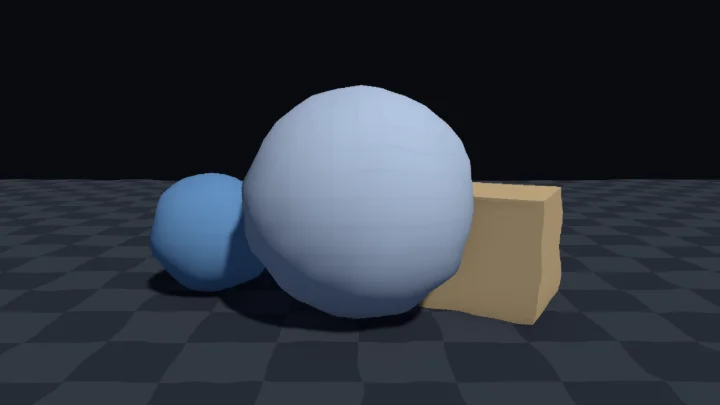
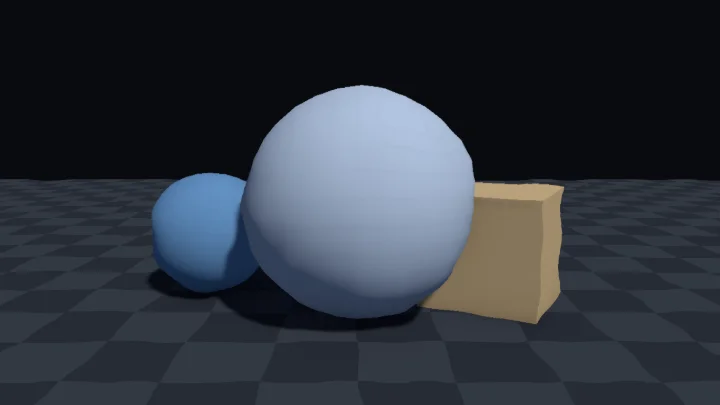
dispatch(screen-shockwave-distortion-fix): 표본 수정: screen-shockwave-distortion 리뷰 반영
Dispatch-Job: screen-shockwave-distortion-fix
Dispatch-Profile: org
Dispatch-Model: claude-opus-5-5

diff --git a/web/src/specimens/screen-shockwave-distortion/meta.ts b/web/src/specimens/screen-shockwave-distortion/meta.ts
@@ -17,7 +17,9 @@ export const meta: SpecimenMeta = {
   difficulty: 3,
   shaderFile: 'ScreenShockwaveDistortion.shader',
   stage: { kind: 'fullscreen' },
-  // 화면을 밀어 읽을 뿐 밝기를 바꾸지 않는다. 넓은 면의 번쩍임이 아니라 제한기를 거치지 않는다.
+  // 고리 띠 안의 그림을 밀어 읽을 뿐 화면 전체 밝기는 거의 그대로라 넓은 면의 번쩍임으로 세지 않는다.
+  // 다만 색수차는 밝은 물체와 어두운 배경 경계에 포화된 빨강 띠를 만들고, Play 를 연타하면 넓은 띠가 빠르게 튄다.
+  // 그래서 C# 의 Play 에 static 최소 간격(실제 시간 0.34 초, 초당 3 회)을 둔다.
   flashes: false,
   params: [
     { key: '_CenterX', label: '중심 X', type: 'range', min: 0, max: 1, step: 0.01, default: 0.5, hint: '화면 왼쪽 0, 오른쪽 1. C# 이 폭발 지점의 화면 좌표를 넣는다' },
@@ -59,8 +61,8 @@ export const meta: SpecimenMeta = {
     { title: '고리가 가로로 늘어난 타원이 된다', body: 'uv 는 가로세로가 모두 0~1 이라 그대로 거리를 재면 화면비만큼 찌그러진다. 중심과의 차이에 `float2(aspect, 1.0)` 을 곱해 높이 단위로 재고, 민 양은 다시 화면비로 나눠 uv 로 되돌린다.' },
     { title: '화면 끝까지 같은 세기로 찢어진다', body: '반경이 커져도 세기가 그대로면 고리가 화면 가장자리에서까지 크게 일그러진다. 반경에 따라 줄어드는 감쇠(`사라지는 반경`)를 곱하고, C# 에서도 퍼지는 동안 세기를 0 으로 내린다.' },
     { title: '폭발 지점과 고리 중심이 어긋난다', body: '`WorldToScreenPoint` 는 픽셀 단위라 그대로 넣으면 중심이 화면 밖으로 나간다. `Camera.WorldToViewportPoint` 의 x, y(0~1)를 넣는다. 카메라 뒤(z < 0)의 폭발은 좌표가 뒤집히므로 세기를 0 으로 둔다.' },
-    { title: '폭발 두 개가 겹치면 앞의 고리가 사라진다', body: '머티리얼 하나에는 폭발 고리 값이 하나뿐이라 `ScreenShockwaveController` 는 마지막 폭발로 다시 시작한다. 동시에 여러 개가 필요하면 `_BlastRadius` 같은 값을 `float4` 몇 개로 늘려 고리를 더하거나, 머티리얼을 복제해 Full Screen Pass 를 하나 더 둔다.' },
-    { title: '플레이를 멈췄는데 화면에 고리가 남는다', body: '머티리얼 에셋의 값은 플레이를 멈춰도 남는다. 컨트롤러가 `OnDisable` 에서 시작 전 값으로 되돌린다. 직접 값을 고치는 코드를 따로 쓰면 같은 처리를 넣는다.' },
+    { title: '폭발 두 개가 겹치면 앞의 고리가 사라지거나 뒤의 폭발이 나오지 않는다', body: '머티리얼 하나에는 폭발 고리 값이 하나뿐이라 `ScreenShockwaveController` 는 마지막 폭발로 다시 시작한다. 연타로 화면이 튀지 않게 0.34초 안에 다시 부른 `Play` 는 무시한다. 동시에 여러 개가 필요하면 `_BlastRadius` 같은 값을 `float4` 몇 개로 늘려 고리를 더하거나, 머티리얼을 복제해 Full Screen Pass 를 하나 더 둔다. 이때도 `Play` 간격 제한(초당 3회)은 모든 고리를 합쳐 지킨다.' },
+    { title: '플레이를 멈췄는데 화면에 고리가 남는다', body: '머티리얼 에셋의 값은 플레이를 멈춰도 남는다. 폭발 프리팹마다 컨트롤러를 붙이면 서로의 중간 값(퍼지는 중의 반경, 세기)을 에셋에 되써서 고리가 멈춘 채 남는다. 컨트롤러는 **씬에 하나만 둔다** (중복은 스스로 지워진다). 폭발 쪽 스크립트는 `ScreenShockwaveController.Instance.Play(위치)` 를 부른다. 컨트롤러는 `OnDisable` 에서 폭발 값(`_BlastRadius`, `_BlastStrength`)을 항상 0 으로 되돌린다. 값을 직접 고치는 코드를 따로 쓰면 같은 처리를 넣는다.' },
   ],
   unity: {
     setup: [
@@ -68,19 +70,19 @@ export const meta: SpecimenMeta = {
       '셰이더를 우클릭해 Create > Material 로 머티리얼을 만든다.',
       '사용 중인 렌더러 에셋(Universal Renderer Data 또는 Renderer 2D Data)의 Add Renderer Feature 에서 Full Screen Pass Renderer Feature 를 추가한다.',
       'Pass Material 에 머티리얼을 넣고 Injection Point 를 Before Rendering Post Processing 으로, Fetch Color Buffer 를 켠다.',
-      '빈 오브젝트에 `ScreenShockwaveController` 를 붙이고 머티리얼을 연결한다. 폭발 순간 `Play(폭발 위치)` 를 호출한다. 플레이 중에는 머티리얼의 멈춘 고리(세기)를 끄고 폭발 고리만 보인다.',
-      '열기 아지랑이로 쓰려면 머티리얼의 세기를 0, 아지랑이를 0.5~0.8 로 둔다.',
+      '머티리얼의 세기를 0 으로 낮춘다. 기본값 0.06 은 썸네일용이라 그대로 두면 Scene 뷰, Game 뷰, 컨트롤러가 없는 씬과 빌드에 멈춘 고리가 계속 보인다. 열기 아지랑이로 쓰려면 세기는 0 그대로 두고 아지랑이를 0.5~0.8 로 올린다.',
+      '빈 오브젝트 하나에 `ScreenShockwaveController` 를 붙이고 머티리얼을 연결한다. 컨트롤러는 **씬에 하나만 둔다**. 폭발 프리팹에는 붙이지 않고, 폭발 순간 그쪽 스크립트에서 `ScreenShockwaveController.Instance.Play(폭발 위치)` 를 부른다.',
     ],
-    verify: '머티리얼의 반경을 0 에서 1 로 올리면 Game 뷰에서 둥근 고리가 퍼지며 고리 위의 물체 윤곽이 바깥으로 휘고, 반경이 클수록 일렁임이 약해진다.',
+    verify: '플레이 중 `ScreenShockwaveController.Instance.Play(위치)` 를 부르면 그 지점에서 둥근 고리가 퍼지며 고리 위의 물체 윤곽이 바깥으로 휘고, 점점 약해져 1.5초 뒤 사라진다.',
     pitfalls: [
-      'XR 에서는 권장하지 않는다. 시야 전체가 일렁이면 멀미를 부를 수 있다. 쓴다면 세기와 고리 폭을 줄이고 짧게 끝낸다.',
-      'XR 은 눈마다 uv 가 따로라 한 중심값으로는 두 눈의 고리가 어긋난다. `WorldToViewportPoint(위치, Camera.MonoOrStereoscopicEye.Left)` 와 `Right` 로 중심을 두 개 구해 넘기고 셰이더에서 `unity_StereoEyeIndex` 로 고른다. 이 표본은 중심을 하나만 받는다.',
-      'Renderer Feature 는 그 렌더러를 쓰는 모든 카메라에 적용된다. 폭발이 없어도 패스 비용(화면 텍스처 세 번 읽기)이 든다.',
+      'XR 에서는 권장하지 않는다. 시야 전체가 일렁이면 멀미를 부를 수 있다. XR 에서 충격파가 필요하면 먼저 폭발 위치에 월드 공간의 구나 쿼드를 두고 [화면 굴절 유리](#/s/screen-refraction-glass)처럼 씬 색상을 밀어 읽는 방식을 권한다. 물체가 눈마다 따로 그려지므로 두 눈의 고리 위치가 저절로 맞는다 (이 방식도 XR 실기기에서는 확인하지 않았다). 그래도 쓴다면 세기와 고리 폭을 줄이고 짧게 끝낸다.',
+      '이 전체 화면 머티리얼은 중심을 하나만 받는다. XR 은 눈마다 투영이 달라 한 중심값으로는 두 눈의 고리가 어긋날 수 있다 (실기기 미확인). 두 눈에 맞추려면 C# 에서 `WorldToViewportPoint(위치, Camera.MonoOrStereoscopicEye.Left)` 와 `Right` 로 중심을 두 개 구해 넘기고, 눈을 고르는 일은 래퍼(`.shader`)가 맡아 `unity_StereoEyeIndex` 로 고른 중심을 core 에 넘긴다 (`core.hlsl` 은 웹과 함께 쓰여 눈을 모른다). 이 방법도 실기기에서 확인하지 않았다.',
+      '색수차는 밝은 물체와 어두운 배경의 경계에 포화된 빨강 띠를 만든다. 화면 전체 밝기는 거의 그대로지만 `Play` 를 연타하면 넓은 고리 띠와 빨강 띠가 빠르게 튄다. 그래서 컨트롤러는 `Play` 를 실제 시간으로 0.34초에 한 번(초당 3회)까지만 받는다. 이 하한은 코드에 고정되어 Inspector 에서 낮출 수 없다.',
+      'Renderer Feature 는 그 렌더러를 쓰는 모든 카메라에 적용된다. 폭발이 없어도 패스 비용(화면 텍스처 세 번 읽기)이 든다. 2D Renderer 도 Renderer 2D Data 에 같은 기능을 추가하면 된다 (전환 표본에서 촬영으로 확인한 방식).',
       'Screen Space - Overlay Canvas 는 이 패스가 끝난 뒤에 그려져 일렁이지 않는다. UI 까지 흔들려면 Canvas 를 Screen Space - Camera 로 바꾼다.',
-      '2D Renderer 도 Renderer 2D Data 에 같은 기능을 추가하면 된다 (전환 표본에서 촬영으로 확인한 방식).',
-      '컨트롤러는 `Time.deltaTime` 을 따른다. 히트 스톱으로 `timeScale` 을 0 으로 두면 고리도 멈춘다. 멈추지 않게 하려면 `Time.unscaledDeltaTime` 으로 바꾼다.',
+      '컨트롤러는 고리를 `Time.deltaTime` 으로 퍼뜨린다. 히트 스톱으로 `timeScale` 을 0 으로 두면 고리도 멈춘다. 멈추지 않게 하려면 `Time.unscaledDeltaTime` 으로 바꾼다. 연타 제한은 이와 상관없이 실제 시간으로 센다.',
     ],
-    graph: 'Shader Graph 에서는 Fullscreen 타깃을 쓰고 URP Sample Buffer 노드(BlitSource)가 `sgSource` 역할을 한다. 밀기 양은 Custom Function 으로 `shockwavePush` 를 불러 쓰고, 밀린 uv 로 BlitSource 를 다시 읽는다.',
+    graph: 'Shader Graph 에서는 Fullscreen 타깃을 쓰고 URP Sample Buffer 노드(BlitSource)가 `sgSource` 역할을 한다. `core.hlsl` 의 `shockwavePush` 는 머티리얼 값(`_Radius`, `_Width`, `_Strength` 등)과 다른 헬퍼(`shockwaveRing`, `shockwaveFade`)를 읽으므로 Custom Function 노드의 String 모드에 그대로 넣으면 컴파일되지 않는다. 식을 입력으로 옮겨 `void ShockwavePush_float(float Dist, float Radius, float Width, float FadeRadius, float Strength, out float Push)` 로 만든다. Name 을 `ShockwavePush`, 입력을 Dist, Radius, Width, FadeRadius, Strength(모두 Float), 출력을 Push(Float)로 두고 Body 에 `float ring = 1.0 - smoothstep(0.0, max(Width, 0.001), abs(Dist - Radius));` 와 `Push = ring * saturate(1.0 - Radius / max(FadeRadius, 0.001)) * Strength;` 두 줄을 쓴다. 폭발 고리는 같은 노드를 하나 더 두어 Radius 와 Strength 에 폭발 반경과 폭발 세기를 넣고, 두 Push 를 Add 한다. Dist 는 Screen Position 노드의 uv 에서 중심을 빼고 (화면비, 1)을 곱한 벡터의 길이다 (화면비는 Screen 노드의 Width ÷ Height). 그 벡터를 Normalize 한 방향에 Push 를 곱하고 (화면비, 1)로 나눈 만큼 uv 에서 빼서 BlitSource 를 다시 읽는다. 색수차는 배율을 바꿔 세 번 읽고 채널을 Combine 한다. 반경, 고리 폭 같은 값은 같은 이름의 그래프 속성으로 만든다.',
   },
   prompt: {
     goal: '폭발 지점에서 둥근 충격파가 퍼지며 화면을 일그러뜨리는 효과를 넣는다. 내장 Full Screen Pass Renderer Feature 에 머티리얼로 연결하고 C# 으로 폭발 위치와 고리 반경, 세기를 움직인다.',
@@ -97,7 +99,7 @@ export const meta: SpecimenMeta = {
     { name: 'heat-haze', label: '열기 아지랑이', values: { _Strength: 0, _Chroma: 0, _Haze: 0.6 } },
   ],
   inspiredBy: [],
-  original: '특정 게임의 재현이 아니라 범용 기법이다. 코드는 이 갤러리에서 새로 작성했다. 수업 자료로는 3D 의 HeatDepthFixed(FORGE3D)와 2D 15 Mini Defence 의 폭발 연출이 같은 원리를 쓴다.',
+  original: '특정 게임의 재현이 아니라 범용 기법이다. 코드는 이 갤러리에서 새로 작성했다. 수업 자료로는 3D 의 HeatDepthFixed(FORGE3D)와 2D 15 Mini Defence 의 폭발 연출이 같은 원리를 쓴다. 웹의 폭발 버튼은 멈춘 기본 고리 위에 폭발 고리를 겹쳐 보이지만, Unity 의 `ScreenShockwaveController` 는 켜져 있는 동안 기본 고리(세기)를 꺼서 폭발 고리만 보인다.',
   references: [
     { label: 'Delt06: Opaque Texture 셰이더 예제 (화면 공간 충격파)', url: 'https://github.com/Delt06/opaque-texture-shaders' },
     { label: 'Unity 토론: URP 전체 화면 셰이더', url: 'https://discussions.unity.com/t/full-screen-shaders-in-urp/869111' },
@@ -107,5 +109,6 @@ export const meta: SpecimenMeta = {
     { id: 'screen-transition-wipe', why: '같은 Full Screen Pass 방식. 원형 닫힘에서 화면비 보정을 같은 식으로 한다' },
     { id: 'force-field-intersection', why: '충돌 순간 퍼지는 맥동 고리를 물체 표면에서 만든다' },
     { id: 'scroll-distort-energy', why: '노이즈로 uv 를 밀어 일렁이게 하는 원리를 메시에 쓴다' },
+    { id: 'screen-refraction-glass', why: '월드 공간 물체에서 씬 색상을 밀어 읽는다. 눈마다 따로 그려져 XR 에서 충격파를 낼 때의 대안이 된다' },
   ],
 }

diff --git a/Assets/Shaders/screen-shockwave-distortion/ScreenShockwaveController.cs b/Assets/Shaders/screen-shockwave-distortion/ScreenShockwaveController.cs
@@ -1,4 +1,5 @@
 // 월드 위치에서 충격파를 시작한다. 폭발 지점을 화면 좌표로 바꿔 넘기고 고리 반경과 세기를 시간에 따라 움직인다.
+// 머티리얼 에셋 하나를 고치므로 씬에 하나만 둔다. 폭발 스크립트는 ScreenShockwaveController.Instance.Play(위치) 를 부른다.
 using System.Collections;
 using UnityEngine;
 
@@ -12,6 +13,9 @@ namespace ShaderGallery.Samples
         static readonly int BlastRadius = Shader.PropertyToID("_BlastRadius");
         static readonly int BlastStrength = Shader.PropertyToID("_BlastStrength");
 
+        /// <summary>씬에 하나뿐인 충격파 관리자. 다른 스크립트는 이쪽으로 Play 를 부른다.</summary>
+        public static ScreenShockwaveController Instance { get; private set; }
+
         // Full Screen Pass Renderer Feature 의 Pass Material 에 넣은 그 머티리얼.
         [SerializeField] Material shockwaveMaterial;
         // 비워 두면 Camera.main 을 쓴다.
@@ -21,17 +25,49 @@ namespace ShaderGallery.Samples
         // 화면 높이 단위. 머티리얼의 '사라지는 반경'을 넘는 구간은 감쇠로 보이지 않는다.
         [SerializeField] float maxRadius = 1.4f;
         [SerializeField, Range(0f, 0.15f)] float peakStrength = 0.15f;
+        // Play 를 연타하면 넓은 고리 띠와 색수차의 빨강 띠가 빠르게 튄다. 1 초에 3 번을 넘지 않게 막는다.
+        [SerializeField] float minInterval = 0.34f;
 
-        // 머티리얼 에셋을 직접 고치므로 시작 전 값을 기억해 두었다가 되돌린다.
+        // 마지막 Play 시각. 모든 컨트롤러가 함께 쓴다.
+        // 씬 재로드 직후나 추가 씬처럼 컨트롤러가 잠깐 둘이 되어도 합쳐서 초당 3 회를 넘지 않는다.
+        static float lastPlayTime = float.NegativeInfinity;
+
+        // 폭발과 상관없는 값은 시작 전 값을 기억해 두었다가 되돌린다.
+        // 폭발 전용 값(_BlastRadius, _BlastStrength)은 저장하지 않고 항상 0 으로 되돌린다.
         float savedCenterX;
         float savedCenterY;
         float savedStrength;
-        float savedBlastRadius;
-        float savedBlastStrength;
         bool saved;
+
+        // 도메인 리로드를 끈 설정(Enter Play Mode Options)에서는 static 값이 이전 플레이에서 넘어온다.
+        // Time.unscaledTime 은 플레이마다 0 부터 다시 세므로 시작할 때 지워 둔다.
+        [RuntimeInitializeOnLoadMethod(RuntimeInitializeLoadType.SubsystemRegistration)]
+        static void ResetStatics()
+        {
+            lastPlayTime = float.NegativeInfinity;
+            Instance = null;
+        }
 
         void Awake()
         {
+            // 컨트롤러가 둘이면 서로의 중간 값(퍼지는 중의 반경, 세기)을 에셋에 되써서 고리가 멈춘 채 남는다.
+            // 먼저 있던 것만 남기고 뒤에 생긴 컴포넌트는 스스로 지운다. 붙어 있던 오브젝트(폭발 프리팹 등)는 지우지 않는다.
+            if (Instance != null && Instance != this)
+            {
+                Debug.LogWarning("ScreenShockwaveController 는 씬에 하나만 둡니다. 중복된 컴포넌트를 지웁니다.", this);
+                Destroy(this);
+                return;
+            }
+            Instance = this;
+        }
+
+        void OnEnable()
+        {
+            // 지워질 중복 컴포넌트는 머티리얼을 건드리지 않는다.
+            if (Instance != this)
+            {
+                return;
+            }
             if (shockwaveMaterial == null)
             {
                 Debug.LogError("ScreenShockwaveController: 머티리얼이 비어 있습니다.", this);
@@ -40,33 +76,31 @@ namespace ShaderGallery.Samples
             savedCenterX = shockwaveMaterial.GetFloat(CenterX);
             savedCenterY = shockwaveMaterial.GetFloat(CenterY);
             savedStrength = shockwaveMaterial.GetFloat(Strength);
-            savedBlastRadius = shockwaveMaterial.GetFloat(BlastRadius);
-            savedBlastStrength = shockwaveMaterial.GetFloat(BlastStrength);
             saved = true;
-        }
-
-        void OnEnable()
-        {
-            if (!saved)
-            {
-                return;
-            }
-            // 머티리얼 기본값의 멈춘 고리는 썸네일용이다. 켜져 있는 동안에는 폭발 고리만 보이게 끈다.
-            // Awake 다음에도, 껐다 다시 켤 때도 불린다.
+            // 머티리얼의 멈춘 고리(세기)는 썸네일과 값 조절용이다. 켜져 있는 동안에는 폭발 고리만 보이게 끈다.
+            // 웹의 폭발 버튼은 멈춘 고리 위에 폭발 고리를 겹쳐 보이지만 여기서는 폭발 고리만 남는다.
             shockwaveMaterial.SetFloat(Strength, 0f);
             SetIdle();
         }
 
         /// <summary>
         /// 월드 위치에서 충격파를 시작한다. 이미 퍼지는 중이면 그 고리를 끊고 새 위치에서 다시 시작한다.
-        /// 머티리얼 하나에는 폭발 고리가 하나뿐이라 마지막 폭발이 이긴다.
+        /// 머티리얼 하나에는 폭발 고리가 하나뿐이라 마지막 폭발이 이긴다. 0.34 초 안에 다시 부르면 무시한다.
         /// </summary>
         public void Play(Vector3 worldPosition)
         {
-            if (!saved || !isActiveAndEnabled)
+            // 꺼진 오브젝트에서는 StartCoroutine 이 오류를 낸다.
+            if (Instance != this || !saved || !isActiveAndEnabled)
             {
                 return;
             }
+            // 실제 시간으로 센다. Time.time 은 Time.timeScale 을 올리면 빨라져 초당 3 번 제한이 깨진다.
+            // Inspector 에서 minInterval 을 낮춰도 0.34 초 아래로는 내려가지 않는다.
+            if (Time.unscaledTime - lastPlayTime < Mathf.Max(minInterval, 0.34f))
+            {
+                return;
+            }
+            lastPlayTime = Time.unscaledTime;
             StopAllCoroutines();
             StartCoroutine(Run(worldPosition));
         }
@@ -123,17 +157,26 @@ namespace ShaderGallery.Samples
 
         void OnDisable()
         {
+            // lastPlayTime 은 지우지 않는다. 껐다 켜는 것으로 초당 3 회 제한을 피하지 못하게 한다.
             StopAllCoroutines();
-            if (!saved)
+            if (Instance != this || !saved)
             {
                 return;
             }
-            // 머티리얼 에셋의 값은 플레이를 멈춰도 남는다. 고리가 화면에 멈춰 남지 않게 시작 전 값으로 되돌린다.
+            // 머티리얼 에셋의 값은 플레이를 멈춰도 남는다. 폭발 값은 퍼지던 중이어도 0 으로 되돌려 고리가 멈춰 남지 않게 한다.
+            SetIdle();
             shockwaveMaterial.SetFloat(CenterX, savedCenterX);
             shockwaveMaterial.SetFloat(CenterY, savedCenterY);
             shockwaveMaterial.SetFloat(Strength, savedStrength);
-            shockwaveMaterial.SetFloat(BlastRadius, savedBlastRadius);
-            shockwaveMaterial.SetFloat(BlastStrength, savedBlastStrength);
+            saved = false;
+        }
+
+        void OnDestroy()
+        {
+            if (Instance == this)
+            {
+                Instance = null;
+            }
         }
     }
 }
